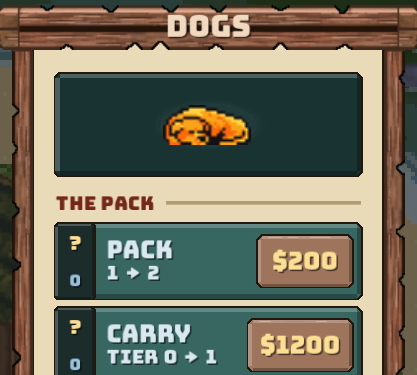
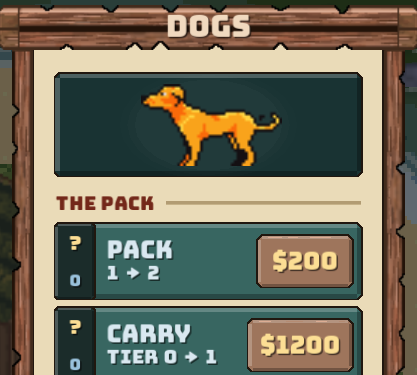
Lake Cleanup: the Upgrades card stands its three boards over three blurbs
Side by side, three rows in a 450 board gave each board 95 px and left the left half of the
card bare. Now the three boards stand in a row at the height the other cards' pictures get,
each with its own sentence wrapped narrow under it. The tokenizer's newline is spelled as
an escape.

Changed region(s): [[0.3429, 0.2053, 0.6859, 0.44]]

diff --git a/Lake Cleanup/CLAUDE.md b/Lake Cleanup/CLAUDE.md
@@ -1369,11 +1369,13 @@ A wording and layout pass over the onboarding cards, off Richard's first-time-pl
 ` in a card's
   text is a paragraph: its own row, `PARA_GAP` (half a row) over it. `test_lake` asks that
   some words are marked and no asterisk reaches the paper.
-- **The Upgrades card is side-laid** (`side`, `_pin_side`, `_draw_side_text`, `SIDE_SHARE`
-  0.42): the top of each board — plank, head, first row or two (`BOARD_TOP` 250 in the
-  probe) — down the left, its own sentence beside it, left-aligned and level with the
-  picture's middle. Three whole boards in a row under one sentence said nothing about
-  which was which.
+- **The Upgrades card is three boards over three blurbs** (`blurbs`, `_caption_band`,
+  `_draw_blurb`, `BLURB_ROWS` 3): the top of each board — plank, head, first row or two
+  (`BOARD_TOP` 250 in the probe) — in a row, its own sentence wrapped narrow under it at
+  the small size. **Side by side was tried the same day and rejected** (Richard: the boards
+  too small, the left half bare): stacked down the left with the words beside them, three
+  rows in a 450 board gave each board 95 px however it was cropped, and a taller board
+  would have left bare paper on the other three cards.
 - **The board went 620 to 760 wide**, which is what took the greeting from 11 / 13 to
   **16 / 20**; `ART_LEAST` came 150 to 110 with it, since the room now comes across.
 - **Upgrades shows the three boards** (net, boats, dogs, plank to foot, `BOARD_PAD` /
